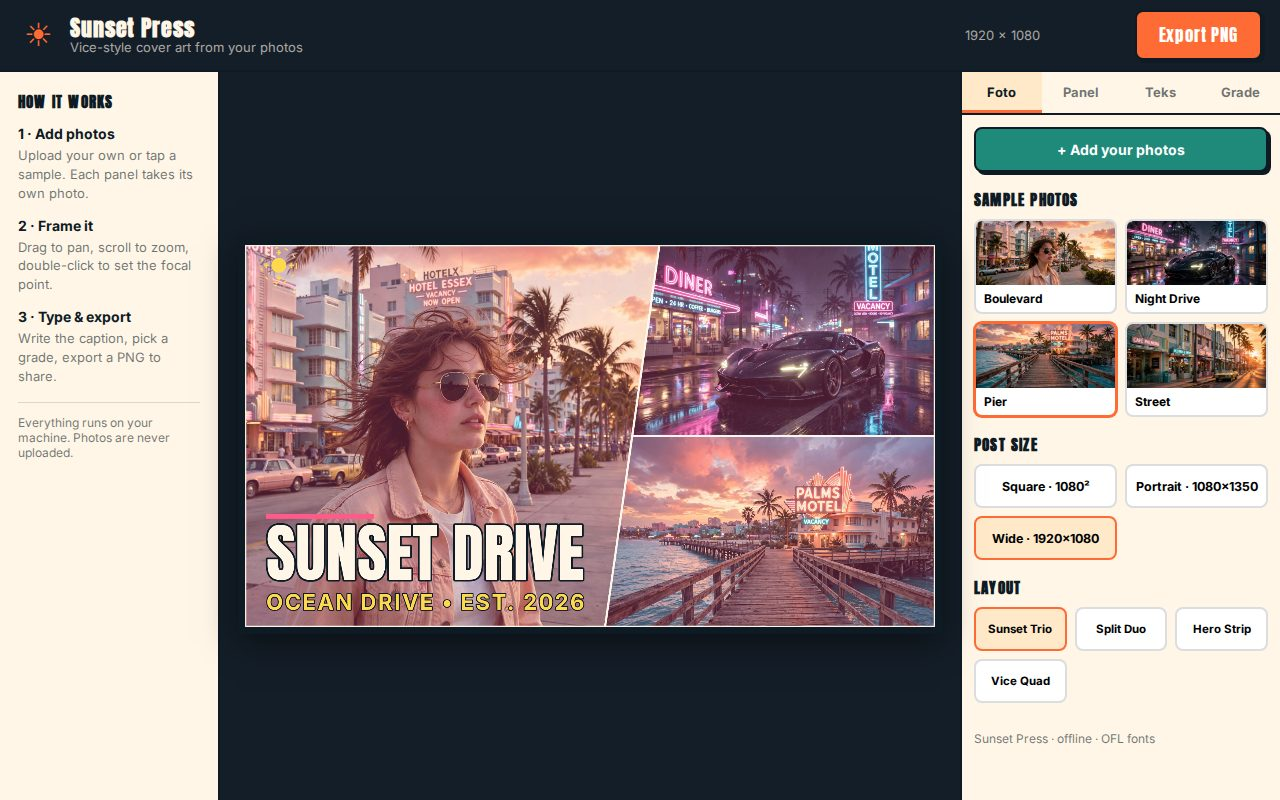
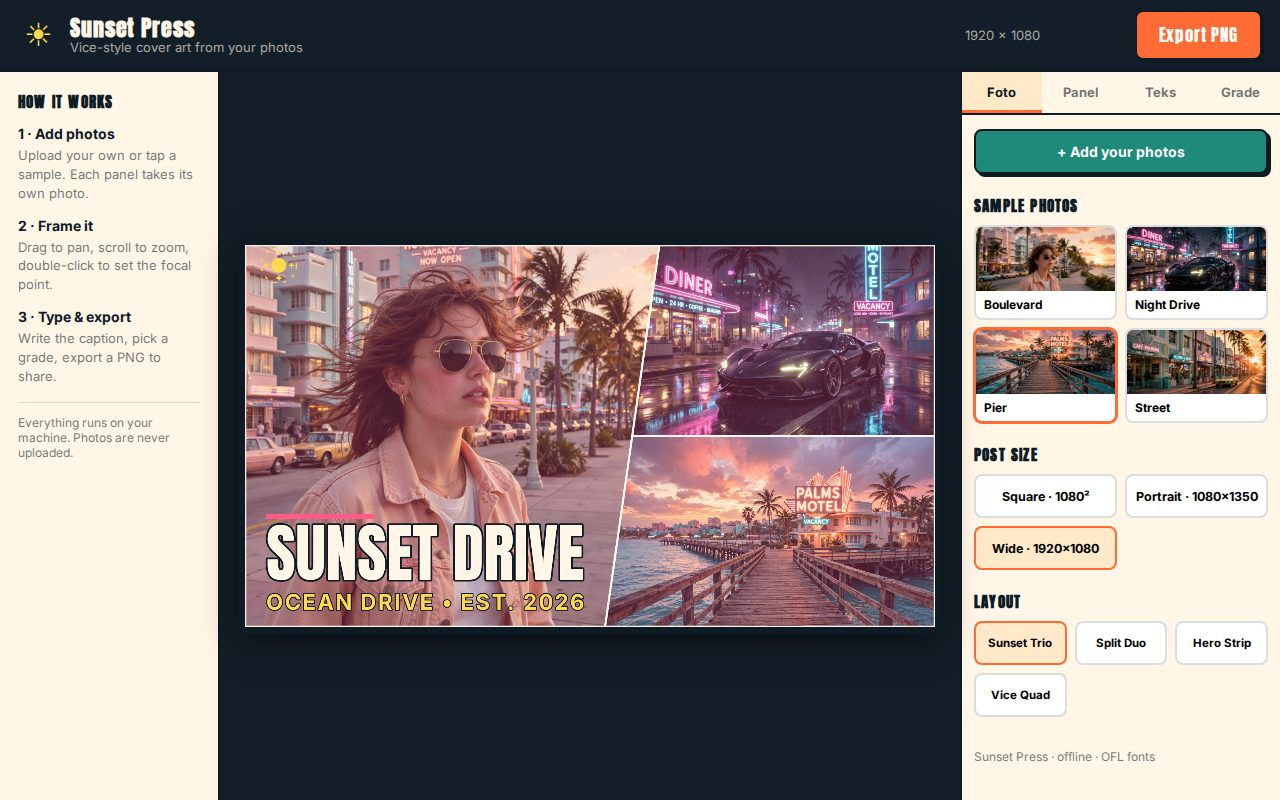
v8 iter6: F2 boulevard zoom 1.35/focal 0.68, brand-mark sun yellow, panel spacing

diff --git a/app/style.css b/app/style.css
@@ -60,7 +60,7 @@ button { font-family: inherit; cursor: pointer; }
 .brand { display: flex; align-items: center; gap: 12px; }
 .brand-mark {
   width: 40px; height: 40px; flex: none;
-  background: transparent; color: var(--orange);
+  background: transparent; color: var(--sun);
   border: none; border-radius: 50%;
   display: flex; align-items: center; justify-content: center;
   font-size: 32px;
@@ -149,9 +149,9 @@ button { font-family: inherit; cursor: pointer; }
   border-bottom: 3px solid transparent;
 }
 .tab.active { color: var(--ink); background: #FFE9C9; border-bottom-color: var(--orange); }
-.tab-page { padding: 12px; display: flex; flex-direction: column; gap: 4px; }
+.tab-page { padding: 14px 12px 12px; display: flex; flex-direction: column; gap: 4px; }
 .tab-page[hidden] { display: none; }
-.section { margin-bottom: 12px; }
+.section { margin-bottom: 16px; }
 .section h3 { margin-bottom: 8px; }
 
 .upload-btn {

diff --git a/app/src/presets.js b/app/src/presets.js
@@ -68,7 +68,7 @@ export const LAYOUTS = {
 // Sample photos: one Vice City sunset world, four moments.
 // focal is the point the cover-fit keeps centred (0..1 of the photo).
 export const SAMPLES = [
-  { id: 'boulevard', label: 'Boulevard', src: 'samples/boulevard.jpg', focal: { x: 0.5, y: 0.60 }, zoom: 1.2 },
+  { id: 'boulevard', label: 'Boulevard', src: 'samples/boulevard.jpg', focal: { x: 0.5, y: 0.68 }, zoom: 1.35 },
   { id: 'nightdrive', label: 'Night Drive', src: 'samples/nightdrive.jpg', focal: { x: 0.48, y: 0.5 }, zoom: 1.06 },
   { id: 'pier', label: 'Pier', src: 'samples/pier.jpg', focal: { x: 0.0, y: 0.424 }, zoom: 1.06 },
   { id: 'street', label: 'Street', src: 'samples/street.jpg', focal: { x: 0.5, y: 0.5 }, zoom: 1.0 },

diff --git a/app/src/app.js b/app/src/app.js
@@ -16,7 +16,7 @@ const state = {
   size: 'wide',
   layout: 'trio',
   panels: [
-    { imageKey: null, focal: { x: 0.5, y: 0.60 }, zoom: 1.2 },
+    { imageKey: null, focal: { x: 0.5, y: 0.68 }, zoom: 1.35 },
     { imageKey: null, focal: { x: 0.48, y: 0.5 }, zoom: 1.06 },
     { imageKey: null, focal: { x: 0.0, y: 0.424 }, zoom: 1.06 },
   ],
